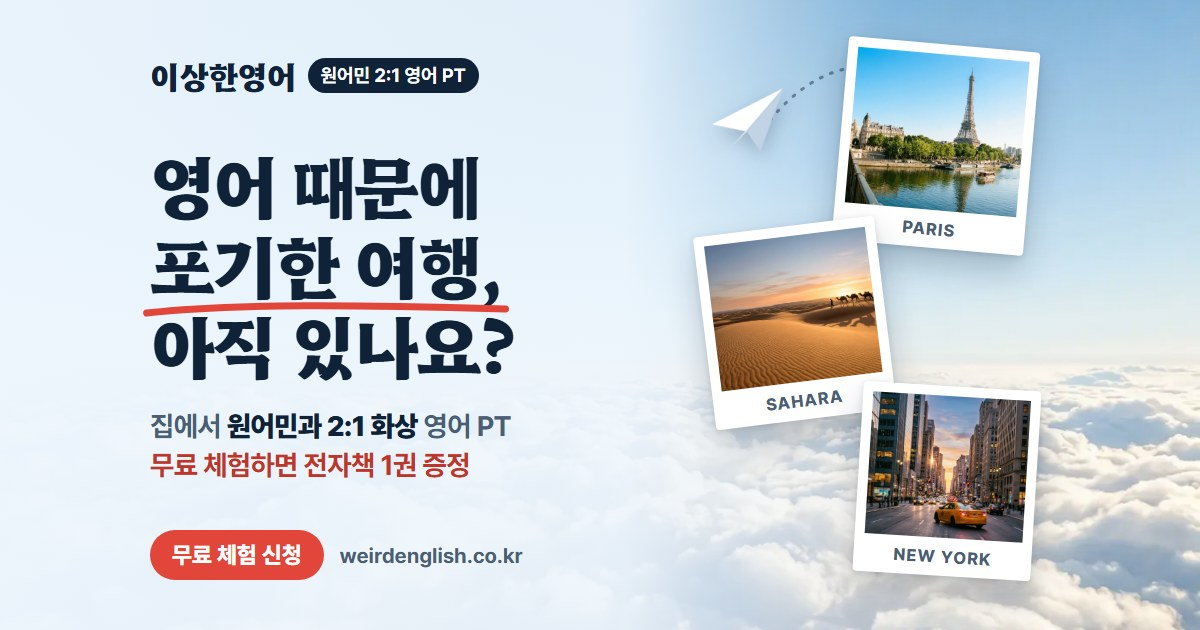
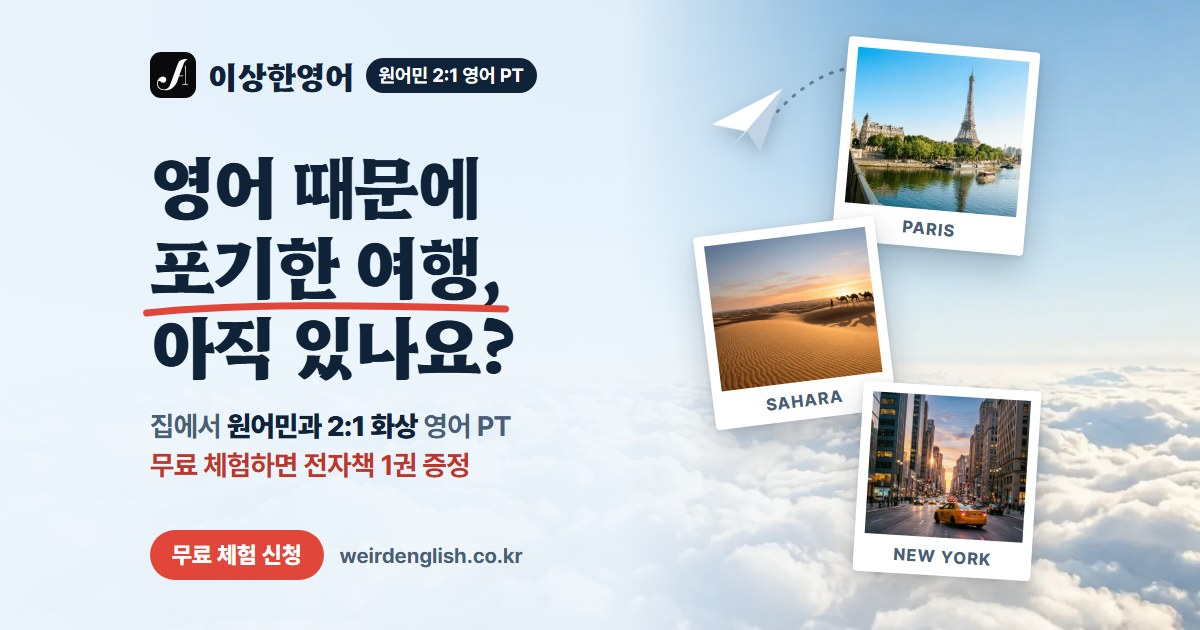
로고: 유튜브 채널의 A 로 통일 — 사이트 아이콘·머리글·바닥글·책 표지·링크 미리보기
- 사이트 아이콘(브라우저 탭·검색 결과·홈 화면): 예전 초록 말풍선 → 검은 바탕 흰 A(favicon.ico 16·32·48 / svg / 192 / 512 / apple-touch)
- 머리글·바닥글: 검은 A 배지 + 「이상한영어」(빨간 펜 밑줄)
- 책 표지·책등·휴대폰 첫 표지: 금박 A
- 링크 미리보기 그림: 「이상한영어」 앞 A 배지
- _build/brand.py: 채널 프로필에서 윤곽을 따 곡선 하나로 스프라이트·아이콘·미리보기 마크를 모두 만든다(원본과 겹침 IoU 0.98)
- 금박 4색·가죽 검정은 style.css :root 한 곳(--gold-1~4, --leather), 아이콘·미리보기도 거기서 읽음
- deploy.py: root/ → 저장소 맨 위, 아이콘 주소에도 내용 지문

Changed region(s): [[0.1233, 0.0603, 0.4625, 0.181]]

diff --git a/index.html b/index.html
@@ -13,7 +13,7 @@
 <meta property="og:url" content="https://weirdenglish.co.kr/">
 <meta property="og:title" content="영어 때문에 포기한 여행, 아직 있나요?">
 <meta property="og:description" content="무료 체험하면 전자책 증정 · 원어민 2:1 영어PT">
-<meta property="og:image" content="https://weirdenglish.co.kr/assets/og-share.jpg?v=64d10e89">
+<meta property="og:image" content="https://weirdenglish.co.kr/assets/og-share.jpg?v=8f3d5e34">
 <meta property="og:image:type" content="image/jpeg">
 <meta property="og:image:width" content="1200">
 <meta property="og:image:height" content="630">
@@ -22,24 +22,30 @@
 <meta name="twitter:card" content="summary_large_image">
 <meta name="twitter:title" content="영어 때문에 포기한 여행, 아직 있나요?">
 <meta name="twitter:description" content="무료 체험하면 전자책 증정 · 원어민 2:1 영어PT">
-<meta name="twitter:image" content="https://weirdenglish.co.kr/assets/og-share.jpg?v=64d10e89">
+<meta name="twitter:image" content="https://weirdenglish.co.kr/assets/og-share.jpg?v=8f3d5e34">
 <script type="application/ld+json">
-{"@context":"https://schema.org","@type":"EducationalOrganization","name":"이상한영어","url":"https://weirdenglish.co.kr/","logo":"https://weirdenglish.co.kr/favicon-512.png","image":"https://weirdenglish.co.kr/assets/og-share.jpg?v=64d10e89","description":"집에서 원어민과 2:1 화상으로 관리받는 영어 PT. 왕초보 여행영어·영어회화 무료 체험 신청.","address":{"@type":"PostalAddress","streetAddress":"승방길 27","addressLocality":"관악구","addressRegion":"서울특별시","addressCountry":"KR"},"sameAs":["https://www.youtube.com/@%EC%9D%B4%EC%83%81%ED%95%9C%EC%98%81%EC%96%B4"]}
+{"@context":"https://schema.org","@type":"EducationalOrganization","name":"이상한영어","url":"https://weirdenglish.co.kr/","logo":"https://weirdenglish.co.kr/favicon-512.png","image":"https://weirdenglish.co.kr/assets/og-share.jpg?v=8f3d5e34","description":"집에서 원어민과 2:1 화상으로 관리받는 영어 PT. 왕초보 여행영어·영어회화 무료 체험 신청.","address":{"@type":"PostalAddress","streetAddress":"승방길 27","addressLocality":"관악구","addressRegion":"서울특별시","addressCountry":"KR"},"sameAs":["https://www.youtube.com/@%EC%9D%B4%EC%83%81%ED%95%9C%EC%98%81%EC%96%B4"]}
 </script>
 <meta name="theme-color" content="#CFE6FA" media="(prefers-color-scheme: light)">
 <meta name="theme-color" content="#0D1828" media="(prefers-color-scheme: dark)">
-<link rel="icon" href="/favicon.ico">
-<link rel="apple-touch-icon" href="/apple-touch-icon.png">
+<link rel="icon" href="/favicon.ico?v=ac2f214d" sizes="48x48">
+<link rel="icon" href="/favicon.svg?v=f0d14606" type="image/svg+xml">
+<link rel="icon" href="/favicon-192.png?v=d23fad6a" type="image/png" sizes="192x192">
+<link rel="apple-touch-icon" href="/apple-touch-icon.png?v=d707cf96">
 <link rel="preload" href="assets/fonts/noto-kr.woff2?v=779e6461" as="font" type="font/woff2" crossorigin>
-<link rel="stylesheet" href="assets/style.css?v=5f1e1d25">
+<link rel="stylesheet" href="assets/style.css?v=087c488c">
 <script>(function(d){d.classList.replace('no-js','js');try{if(CSS.supports('animation-timeline: view()')&&!matchMedia('(prefers-reduced-motion: reduce)').matches)d.classList.add('sd')}catch(e){}try{if(!sessionStorage.getItem('weIntro')){sessionStorage.setItem('weIntro','1');d.classList.add('intro-on')}}catch(e){}})(document.documentElement)</script>
 </head>
 <body>
+<!-- @@브랜드 시작 (만드는 곳: _build/brand.py — 고치지 말 것) -->
+<svg width="0" height="0" style="position:absolute" aria-hidden="true" focusable="false"><defs><linearGradient id="aGold" x1="0" y1="0" x2="1" y2="1"><stop offset="0" style="stop-color:var(--gold-1)"/><stop offset=".45" style="stop-color:var(--gold-2)"/><stop offset=".72" style="stop-color:var(--gold-3)"/><stop offset="1" style="stop-color:var(--gold-4)"/></linearGradient><symbol id="aMark" viewBox="0 0 498.6 501.8"><path d="M456.8 107.6C455.1 107.2 450.3 107.2 448.8 107.7C448.1 107.9 447.7 108.2 447.4 108.7C447.1 109.2 447.1 109.4 447.0 110.5C445.4 124.7 452.7 382.9 446.9 398.8C446.4 400.4 446.2 400.5 445.0 401.1C442.2 402.6 433.0 401.3 427.8 402.4C423.0 403.4 417.7 405.4 414.8 407.1C412.9 408.2 411.9 409.3 410.9 410.5C409.8 411.7 409.0 413.1 408.4 414.5C407.8 416.0 406.9 418.1 407.3 419.3C407.5 420.1 408.4 420.7 409.2 421.0C410.5 421.4 412.6 421.5 414.2 420.9C416.4 420.1 418.4 417.1 420.8 416.0C422.9 415.0 424.9 414.8 427.5 414.4C431.2 413.9 435.4 413.9 440.8 413.8C449.1 413.7 464.5 414.9 472.5 414.3C477.4 413.9 481.1 413.2 484.2 412.4C486.5 411.8 488.2 411.2 489.8 410.4C490.9 409.8 491.7 409.2 492.8 408.3C494.1 407.2 495.9 405.3 496.9 403.8C497.7 402.5 498.4 401.0 498.6 399.8C498.7 398.9 498.7 397.8 498.2 397.3C497.8 396.7 496.7 396.4 495.8 396.3C494.7 396.2 493.4 396.3 492.2 396.8C490.8 397.3 489.6 399.2 487.8 400.0C485.6 401.0 483.1 401.5 480.0 401.9C475.3 402.4 465.3 402.3 462.2 401.9C461.2 401.7 460.7 401.6 460.1 401.2C459.7 400.8 459.5 400.7 459.2 399.5C455.7 385.8 461.6 125.3 459.2 110.5C459.0 109.3 459.0 109.0 458.6 108.5C458.1 108.0 457.6 107.8 456.8 107.6Z M484.6 0.8C483.9 0.1 483.0 0.2 481.2 0.0C475.3 -0.6 452.3 0.4 442.2 1.2C435.8 1.7 432.1 2.3 426.5 3.4C419.8 4.6 411.6 6.6 404.8 8.8C398.5 10.9 392.5 13.2 387.0 15.9C381.7 18.6 376.8 21.8 372.2 24.9C368.1 27.8 364.5 30.5 360.8 34.0C356.6 37.9 351.9 43.1 348.6 47.5C345.8 51.3 343.9 54.7 341.7 58.8C339.4 63.2 338.5 65.1 335.2 73.0C320.1 109.6 239.2 335.6 219.9 386.3C213.7 402.6 211.0 410.2 207.3 418.5C204.9 424.0 203.5 427.2 200.8 431.8C197.6 437.3 193.3 443.7 189.2 449.0C185.2 454.0 180.7 458.8 176.5 462.8C172.8 466.3 169.6 469.1 165.2 472.2C160.0 475.8 152.4 480.4 147.0 482.8C143.1 484.6 140.2 485.4 136.2 486.4C131.5 487.5 125.9 488.4 120.5 488.8C114.8 489.1 108.1 488.8 102.8 488.3C98.3 487.9 95.4 487.6 90.8 486.5C83.7 484.7 71.1 480.1 64.8 477.3C60.9 475.6 58.9 474.5 55.8 472.6C52.2 470.6 48.1 468.2 44.5 465.4C40.7 462.4 36.6 458.7 33.4 455.3C30.5 452.2 28.2 449.1 26.0 445.8C23.8 442.4 21.9 439.2 20.2 435.0C17.9 429.7 15.5 421.8 14.3 416.0C13.3 411.5 12.9 407.5 12.6 403.5C12.4 399.8 12.3 396.5 12.5 392.8C12.7 388.6 13.1 383.9 13.8 379.8C14.5 375.9 15.5 371.7 16.5 368.5C17.3 366.1 18.2 364.2 19.2 362.3C20.1 360.5 20.9 359.0 22.3 357.6C24.1 355.8 27.3 353.6 29.5 352.7C31.2 352.1 32.7 352.1 34.2 352.0C35.8 352.0 37.1 352.0 39.0 352.5C41.9 353.3 45.8 354.9 49.8 357.3C55.5 360.7 64.4 368.9 69.2 372.4C72.0 374.3 73.6 375.6 75.8 376.7C77.6 377.7 78.9 378.4 81.2 379.1C85.1 380.2 92.7 381.3 96.8 381.5C99.3 381.7 100.8 381.5 103.0 381.3C105.6 381.0 108.6 380.4 111.2 379.7C113.7 379.1 115.9 378.3 118.2 377.2C120.8 376.0 123.5 374.6 126.0 372.9C128.5 371.2 131.2 368.9 133.2 367.0C134.6 365.5 135.5 364.7 136.8 362.8C138.9 359.7 142.3 353.8 143.9 349.8C145.3 346.6 145.9 344.0 146.5 340.8C147.1 337.3 147.6 333.0 147.5 329.5C147.4 326.5 146.8 323.8 146.2 321.0C145.5 318.2 144.6 315.2 143.4 312.5C142.3 310.0 141.0 307.7 139.4 305.3C137.7 302.5 135.4 299.1 133.2 296.8C131.4 294.8 129.5 293.5 127.2 291.9C124.8 290.2 122.1 288.3 119.0 287.0C115.4 285.3 109.9 283.8 106.5 283.2C104.2 282.8 103.1 282.7 100.8 282.7C97.2 282.6 91.3 282.8 87.0 283.2C83.1 283.5 79.4 283.9 76.0 284.6C73.0 285.3 70.7 285.9 67.5 287.2C62.9 289.0 56.2 292.2 51.5 295.0C47.4 297.4 43.8 299.9 40.5 302.6C37.5 304.9 35.3 306.8 32.4 309.9C28.6 313.9 23.4 320.4 20.1 325.3C17.4 329.2 15.4 333.0 13.6 336.5C12.0 339.6 10.8 342.1 9.5 345.3C8.0 349.0 6.4 353.0 5.1 357.8C3.5 363.7 2.0 372.0 1.1 378.3C0.4 383.6 0.2 388.3 0.0 393.0C-0.2 397.3 -0.2 401.2 0.0 405.3C0.2 409.4 0.4 413.2 1.2 417.8C2.3 423.7 4.7 432.1 6.7 437.5C8.2 441.5 9.9 444.4 11.6 447.5C13.2 450.5 14.7 452.9 16.8 455.8C19.5 459.4 23.4 463.9 27.0 467.5C30.5 471.0 34.1 474.2 38.0 477.1C41.9 479.9 46.4 482.6 50.5 484.8C54.2 486.9 57.5 488.5 61.5 490.1C66.0 492.0 71.1 493.8 76.0 495.3C80.9 496.8 85.9 498.1 90.8 499.0C95.5 500.0 99.2 500.6 104.8 501.1C112.8 501.8 125.6 501.9 134.5 501.8C141.8 501.7 147.7 501.7 154.2 500.9C161.0 500.2 168.5 498.6 174.5 497.2C179.5 496.0 183.4 494.9 188.0 493.4C193.0 491.8 198.3 490.0 203.2 487.9C208.1 486.0 212.8 483.8 217.5 481.4C222.2 479.0 226.5 476.7 231.2 473.7C236.6 470.4 242.2 466.8 248.0 462.2C255.1 456.7 264.1 448.6 270.2 442.5C275.0 437.8 278.2 434.0 282.1 429.3C286.4 424.1 290.6 418.6 294.8 412.5C299.6 405.6 304.9 397.4 309.0 389.8C312.9 382.7 315.8 375.5 318.8 368.5C321.7 361.9 323.4 357.4 326.8 348.8C333.0 332.6 347.2 284.1 352.5 278.7C353.5 277.7 353.7 278.0 355.2 277.7C362.1 276.4 406.5 279.6 413.5 277.6C415.2 277.1 415.5 276.7 416.4 275.8C417.9 274.3 419.7 270.7 420.4 269.0C420.8 268.1 421.2 267.3 421.0 266.8C420.8 266.2 420.3 266.1 419.2 265.8C413.6 264.3 368.0 266.5 361.5 265.8C360.2 265.6 359.7 265.7 359.1 265.2C358.7 264.8 358.5 264.6 358.4 263.5C358.2 252.8 413.5 111.8 425.5 80.8C429.6 70.1 431.6 64.9 434.2 59.3C435.9 55.5 437.2 52.9 439.0 50.0C440.6 47.3 442.0 45.3 444.3 42.3C447.7 37.8 453.2 30.7 457.9 26.2C462.0 22.4 466.1 19.5 470.5 16.6C474.9 13.8 482.4 12.0 484.4 9.2C485.6 7.6 485.5 5.5 485.5 4.0C485.5 2.8 485.3 1.5 484.6 0.8Z"/></symbol></defs></svg>
+<!-- @@브랜드 끝 -->
 <div class="intro" id="intro" aria-hidden="true">
   <div class="intro-book">
     <div class="intro-page"><p class="intro-epi">이 책은 ABC밖에 몰랐던<br>사람이 썼습니다.</p><span class="intro-sign">김경도 드림</span></div>
     <div class="intro-cover">
       <div class="intro-front">
+        <svg class="intro-mark"><use href="#aMark"/></svg>
         <p class="intro-series">WEIRD ENGLISH · 첫 번째 이야기</p>
         <p class="intro-title">이상한<br>영어</p>
         <p class="intro-sub">수능 영어 9등급 → 지금은 원어민과 대화합니다</p>
@@ -51,7 +57,7 @@
 </div>
 
 <header class="top">
-  <a class="brand" href="#top" aria-label="이상한영어 처음으로">이상한영어</a>
+  <a class="brand" href="#top" aria-label="이상한영어 처음으로"><span class="mark" aria-hidden="true"><svg><use href="#aMark"/></svg></span><span class="word">이상한영어</span></a>
   <p class="runhead" aria-hidden="true" id="runhead"><b>프롤로그</b>영어 때문에 막혀 있다면</p>
   <nav class="nav" aria-label="주요 메뉴">
     <a href="#journey">여행</a>
@@ -115,11 +121,12 @@
 
   <div class="stage" id="stage">
     <div class="book" id="book" data-chapter="제1장|영어 때문에 포기한 것들" aria-label="이상한영어 이야기책">
-      <div class="book-spine" aria-hidden="true"><b>이상한영어 스토리</b></div>
+      <div class="book-spine" aria-hidden="true"><b>이상한영어 스토리</b><svg class="spine-mark"><use href="#aMark"/></svg></div>
       <div class="sheaf">
       <i class="board" aria-hidden="true"></i>
       <div class="leaf">
         <div class="face front cover"><div class="pg">
+          <svg class="cover-mark" aria-hidden="true"><use href="#aMark"/></svg>
           <p class="cover-top">WEIRD ENGLISH · 첫 번째 이야기</p>
           <div>
             <p class="cover-title">이상한영어<br><span>스토리</span></p>
@@ -882,7 +889,7 @@
 <footer class="foot">
   <div class="wrap">
     <div class="foot-grid">
-      <div><p class="brand">이상한영어</p><p class="tagline">집에서 2:1로 관리받는 영어PT</p></div>
+      <div><p class="brand"><span class="mark" aria-hidden="true"><svg><use href="#aMark"/></svg></span><span class="word">이상한영어</span></p><p class="tagline">집에서 2:1로 관리받는 영어PT</p></div>
       <div class="foot-links">
         <a class="chip" href="https://blog.naver.com/dean6796/222103923905" target="_blank" rel="noopener"><i class="ph ph-article"></i>블로그</a>
         <a class="chip" href="http://www.instagram.com/weiredenglish" target="_blank" rel="noopener"><i class="ph ph-instagram-logo"></i>인스타그램</a>

diff --git a/assets/style.css b/assets/style.css
@@ -12,6 +12,8 @@
 /* @@글꼴 끝 */
 
 :root{
+  /* 물건 색(밝은/어두운 화면 같음): 책 가죽·로고 배지 검정, 금박 4색 — 로고 금박(#aGold)·아이콘(_build/brand.py)도 여기서 읽는다 */
+  --leather:#0A0A0C; --gold-1:#F4E4B8; --gold-2:#CFA95E; --gold-3:#8E6B2F; --gold-4:#EAD39C;
   --sky-top:#9CCBF2; --sky-mid:#CFE6FA; --bg:#EEF6FD; --bg-2:#E1EEFA; --sheet:#FBFDFF; --sheet-2:#F1F6FB;
   --ink:#0F2238; --ink-2:#3A4E66; --ink-3:#5D7088; --line:rgba(15,34,56,.12);
   --pen:#E2463A; --pen-ink:#C0352A;
@@ -84,8 +86,12 @@ h1,h2,h3,h4,p,figure{margin:0}
 .top{position:fixed;inset:0 0 auto;height:var(--header);z-index:50;display:flex;align-items:center;gap:20px;padding:0 16px;
   background:color-mix(in srgb,var(--bg) 78%,transparent);backdrop-filter:blur(14px) saturate(150%);-webkit-backdrop-filter:blur(14px) saturate(150%);border-bottom:1px solid var(--line)}
 @media (min-width:768px){.top{padding:0 40px}}
-.brand{font-family:var(--f-sans);font-weight:800;font-size:21px;letter-spacing:-.03em;position:relative;white-space:nowrap;display:inline-block}
-.brand::after{content:"";position:absolute;left:-2px;right:-4px;bottom:2px;height:6px;border-radius:6px;background:var(--pen);opacity:.28;transform:rotate(-1.5deg)}
+/* 로고 = 유튜브 채널의 A(검은 배지, index.html 스프라이트 #aMark) + 「이상한영어」(빨간 펜 밑줄) */
+.brand{font-family:var(--f-sans);font-weight:800;font-size:21px;letter-spacing:-.03em;white-space:nowrap;display:inline-flex;align-items:center;gap:.42em}
+.brand .mark{flex:none;width:1.5em;height:1.5em;border-radius:.34em;background:var(--leather);display:grid;place-items:center;box-shadow:inset 0 0 0 1px rgb(255 255 255 / .12)}
+.brand .mark svg{width:68%;height:68%;fill:#fff}
+.brand .word{position:relative}
+.brand .word::after{content:"";position:absolute;left:-2px;right:-4px;bottom:2px;height:6px;border-radius:6px;background:var(--pen);opacity:.28;transform:rotate(-1.5deg)}
 .runhead{flex:1;text-align:center;font-size:13px;color:var(--ink-3);display:none;white-space:nowrap;overflow:hidden;text-overflow:ellipsis}
 .runhead b{font-family:var(--f-sans);font-weight:600;color:var(--ink-2);margin-right:8px}
 .nav{display:none;gap:24px;font-size:15px;font-weight:500;color:var(--ink-2);margin-left:auto}
@@ -154,15 +160,16 @@ h1,h2,h3,h4,p,figure{margin:0}
 .book{position:relative;width:calc(var(--pw) * 2);height:var(--ph);transform-style:preserve-3d;pointer-events:auto;will-change:transform;grid-area:1/1;
   --thick:calc(var(--pw) * .1);--in:calc(var(--ph) * .014)}
 .sheaf{position:absolute;inset:0;perspective:2600px}
-.board{position:absolute;top:0;left:50%;width:50%;height:100%;border-radius:2px 7px 7px 2px;background:radial-gradient(130% 100% at 70% 85%,#1E1F25,#0A0A0C);
+.board{position:absolute;top:0;left:50%;width:50%;height:100%;border-radius:2px 7px 7px 2px;background:radial-gradient(130% 100% at 70% 85%,#1E1F25,var(--leather));
   box-shadow:24px 34px 60px -18px rgb(var(--shadow-rgb) / .5)}
 /* 책등: 표지 왼쪽 모서리에서 뒤로 두께만큼 — 첫 화면에서 책이 제목 쪽으로 돌아앉으면 보인다 */
 .book-spine{position:absolute;top:0;left:calc(50% - var(--thick));width:var(--thick);height:100%;transform-origin:100% 50%;transform:rotateY(-90deg);backface-visibility:hidden;-webkit-backface-visibility:hidden;
   display:grid;place-items:center;border-radius:3px;background:linear-gradient(90deg,#060607,#26272D 38%,#17181C 70%,#050506)}
-.book-spine::before,.book-spine::after{content:"";position:absolute;left:12%;right:12%;height:2px;background:linear-gradient(90deg,#8E6B2F,#F4E4B8,#8E6B2F)}
+.book-spine::before,.book-spine::after{content:"";position:absolute;left:12%;right:12%;height:2px;background:linear-gradient(90deg,var(--gold-3),var(--gold-1),var(--gold-3))}
+.spine-mark{position:absolute;left:22%;bottom:11%;width:56%;height:calc(var(--thick) * .56);fill:url(#aGold)}
 .book-spine::before{top:7%}.book-spine::after{bottom:7%}
 .book-spine b{writing-mode:vertical-rl;text-orientation:upright;font-size:calc(var(--thick) * .4);font-weight:900;letter-spacing:.06em;
-  background:linear-gradient(180deg,#F4E4B8,#CFA95E 45%,#8E6B2F 75%,#EAD39C);-webkit-background-clip:text;background-clip:text;color:transparent}
+  background:linear-gradient(180deg,var(--gold-1),var(--gold-2) 45%,var(--gold-3) 75%,var(--gold-4));-webkit-background-clip:text;background-clip:text;color:transparent}
 .leaf,.base{position:absolute;top:0;left:50%;width:50%;height:100%}
 .leaf + .leaf,.base{top:var(--in);height:calc(100% - var(--in) * 2);width:calc(50% - var(--in))}
 /* 스르르 넘어가는 속지: 한 장 = 세 마디(.seg 안에 .seg). 넘길 때 바깥 마디가 먼저 들리고 내려앉을 땐 늦게 따라와 종이처럼 휜다(app.js RIFFLE) */
@@ -201,14 +208,15 @@ h1,h2,h3,h4,p,figure{margin:0}
 .cover{border-radius:2px 7px 7px 2px;background:radial-gradient(120% 90% at 30% 18%,#2B2C33,#141519 55%,#09090B);color:#E9D5A1}
 .inside{border-radius:7px 2px 2px 7px}
 .cover .pg::before{content:"";position:absolute;inset:4.5%;border:1px solid rgb(207 169 94 / .45);border-radius:2px;pointer-events:none}
-.cover :is(.cover-top,.cover-title,.cover-foot){background:linear-gradient(135deg,#F4E4B8,#CFA95E 45%,#8E6B2F 72%,#EAD39C);-webkit-background-clip:text;background-clip:text;color:transparent}
+.cover-mark{position:absolute;top:8cqi;right:10cqi;width:12cqi;height:12cqi;fill:url(#aGold)}
+.cover :is(.cover-top,.cover-title,.cover-foot){background:linear-gradient(135deg,var(--gold-1),var(--gold-2) 45%,var(--gold-3) 72%,var(--gold-4));-webkit-background-clip:text;background-clip:text;color:transparent}
 /* 가죽 결 + 책등 옆 접힘 홈(양장본 이음매) */
 .cover::before{background:linear-gradient(90deg,transparent 4%,rgb(0 0 0 / .6) 4.5%,rgb(255 255 255 / .08) 5.1%,transparent 5.7%),repeating-linear-gradient(90deg,rgb(255 255 255 / .025) 0 1px,transparent 1px 3px),linear-gradient(var(--spine),rgb(0 0 0 / .35),transparent 7%)}
 .cover .pg{justify-content:space-between}
 .cover-top{font-size:clamp(10px,2.8cqi,13px);letter-spacing:.18em;opacity:.72}
 .cover-title{font-family:var(--f-sans);font-weight:900;font-size:clamp(40px,min(15.5cqi,11.5cqb),96px);line-height:1.08;letter-spacing:-.05em}
 .cover-title span{position:relative;display:inline-block}
-.cover-title span::after{content:"";position:absolute;left:0;right:0;bottom:-.14em;height:.05em;background:linear-gradient(90deg,#CFA95E,#F4E4B8 60%,#8E6B2F)}
+.cover-title span::after{content:"";position:absolute;left:0;right:0;bottom:-.14em;height:.05em;background:linear-gradient(90deg,var(--gold-2),var(--gold-1) 60%,var(--gold-3))}
 .cover-line{margin-top:min(5cqi,4cqb);display:flex;flex-direction:column;gap:2px}
 .cover-line s{font-family:var(--f-sans);font-size:clamp(13px,min(4.2cqi,3.6cqb),20px);color:#CDBB8F;opacity:.75;text-decoration-color:var(--pen);text-decoration-thickness:2px}
 .cover-line .pen{font-size:clamp(22px,min(7.4cqi,6cqb),38px);color:#FF8A7F}
@@ -998,7 +1006,8 @@ button.spine:focus-visible{outline:2px solid var(--pen);outline-offset:3px}
   .intro-front,.intro-back{position:absolute;inset:0;border-radius:2px 6px 6px 2px;backface-visibility:hidden;-webkit-backface-visibility:hidden}
   .intro-front{display:flex;flex-direction:column;padding:12% 11%;background:radial-gradient(120% 90% at 30% 18%,#2B2C33,#141519 55%,#09090B);
     box-shadow:inset 7px 0 0 rgb(255 255 255 / .05),inset 12px 0 18px -8px rgb(0 0 0 / .9),0 34px 60px -22px rgb(0 0 0 / .85)}
-  .intro-front p{background:linear-gradient(135deg,#F4E4B8,#CFA95E 45%,#8E6B2F 72%,#EAD39C);-webkit-background-clip:text;background-clip:text;color:transparent}
+  .intro-mark{position:absolute;top:10%;right:11%;width:15%;aspect-ratio:1;fill:url(#aGold)}
+  .intro-front p{background:linear-gradient(135deg,var(--gold-1),var(--gold-2) 45%,var(--gold-3) 72%,var(--gold-4));-webkit-background-clip:text;background-clip:text;color:transparent}
   .intro-series{font-size:11px;font-weight:700;letter-spacing:.18em}
   .intro-title{margin-top:auto;font-family:var(--f-sans);font-weight:800;font-size:clamp(48px,15vw,64px);line-height:1.04;letter-spacing:-.05em}
   .intro-sub{margin-top:14px;font-size:13px;font-weight:600}
